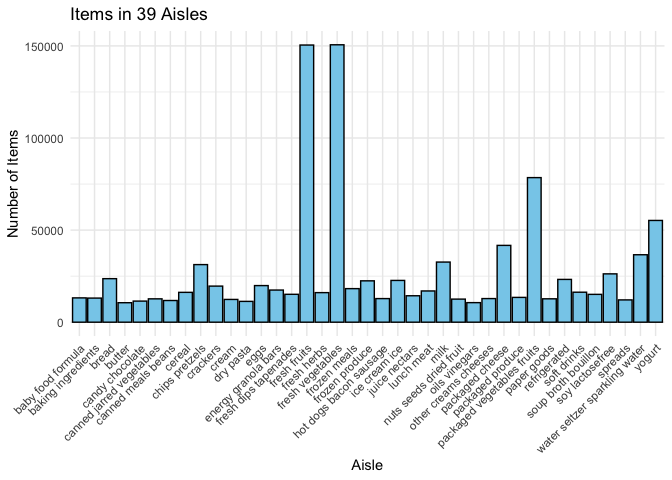
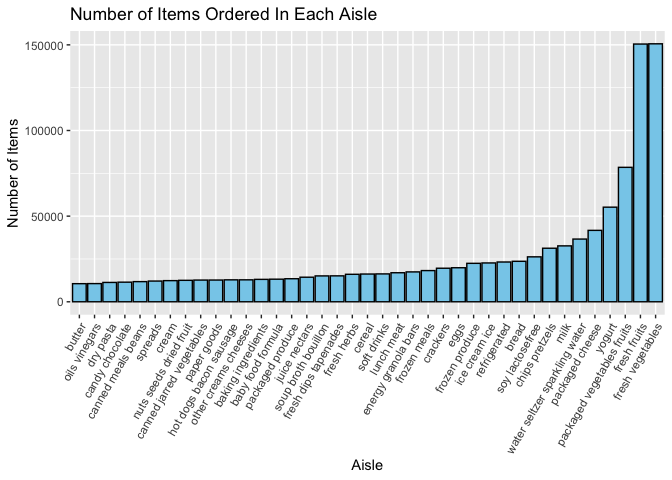
Finished writeups, checked format looks good

diff --git a/p8105_hw3_md4270.md b/p8105_hw3_md4270.md
@@ -15,9 +15,12 @@ data("instacart")
 ```
 
 The `instacart` dataset has 1384617 number of rows and 15 number of
-columns. Each row is an order placed. Key variables contain the order
-id, product id, user id, the order date, product id and the aisle it’s
-in.
+columns. Each row is a single product from an instacart order placed.
+Key variables contain the order id, product id, user id, the order date,
+product id and the aisle it’s in.
+
+In total, there are 39123 products found in 131209 orders from 131209
+distinct users.
 
 ``` r
 aisle_num = length(unique(instacart$aisle_id))
@@ -55,16 +58,16 @@ limiting this to aisles with more than 10000 items ordered. Arrange
 aisles sensibly, and organize your plot so others can read it.
 
 ``` r
-instacart |>
-  group_by(aisle) |>
-  summarize(items_num = n()) |>
-  filter(items_num > 10000) |>
-  arrange(desc(items_num)) |>
-  ggplot(aes(x=aisle, y=items_num)) +
+instacart |> 
+  count(aisle) |> 
+  filter(n > 10000) |> 
+  mutate(aisle = fct_reorder(aisle, n)) |> 
+  ggplot(aes(x = aisle, y = n)) + 
   geom_bar(stat="identity", fill = "skyblue", color = "black") +
-  theme_minimal() +
-  theme(axis.text.x = element_text(angle = 45, hjust = 1)) +
-  labs(x = "Aisle", y = "Number of Items", title = "Items in 39 Aisles")
+  labs(title = "Number of Items Ordered In Each Aisle", 
+       x = "Aisle", 
+       y = "Number of Items") +
+  theme(axis.text.x = element_text(angle = 60, hjust = 1))
 ```
 
 ![](p8105_hw3_md4270_files/figure-gfm/unnamed-chunk-5-1.png)<!-- -->
@@ -100,28 +103,6 @@ instacart |>
 Make a table showing the mean hour of the day at which Pink Lady Apples
 and Coffee Ice Cream are ordered on each day of the week; format this
 table for human readers (i.e. produce a 2 x 7 table).
-
-``` r
-instacart
-```
-
-    ## # A tibble: 1,384,617 × 15
-    ##    order_id product_id add_to_cart_order reordered user_id eval_set order_number
-    ##       <int>      <int>             <int>     <int>   <int> <chr>           <int>
-    ##  1        1      49302                 1         1  112108 train               4
-    ##  2        1      11109                 2         1  112108 train               4
-    ##  3        1      10246                 3         0  112108 train               4
-    ##  4        1      49683                 4         0  112108 train               4
-    ##  5        1      43633                 5         1  112108 train               4
-    ##  6        1      13176                 6         0  112108 train               4
-    ##  7        1      47209                 7         0  112108 train               4
-    ##  8        1      22035                 8         1  112108 train               4
-    ##  9       36      39612                 1         0   79431 train              23
-    ## 10       36      19660                 2         1   79431 train              23
-    ## # ℹ 1,384,607 more rows
-    ## # ℹ 8 more variables: order_dow <int>, order_hour_of_day <int>,
-    ## #   days_since_prior_order <int>, product_name <chr>, aisle_id <int>,
-    ## #   department_id <int>, aisle <chr>, department <chr>
 
 ``` r
 instacart |>
@@ -173,17 +154,15 @@ brfss_smart2010_cleaned =
   brfss_smart2010 |>
   janitor::clean_names() |>
   rename("state"="locationabbr", "county"="locationdesc") |> 
-  filter(topic=="Overall Health" & response %in% c("Excellent", "Very good", "Good", "Fair", "Poor"))
-  
-brfss_smart2010_cleaned$response = 
-  factor(brfss_smart2010_cleaned$response, levels = c("Poor", "Fair", "Good", "Very good", "Excellent"), ordered = TRUE)
+  filter(topic=="Overall Health" & response %in% c("Excellent", "Very good", "Good", "Fair", "Poor")) |>
+  mutate(response = factor(response, levels = c("Poor", "Fair", "Good", "Very good", "Excellent")))
   
 head(brfss_smart2010_cleaned)
 ```
 
     ## # A tibble: 6 × 23
     ##    year state county        class topic question response sample_size data_value
-    ##   <int> <chr> <chr>         <chr> <chr> <chr>    <ord>          <int>      <dbl>
+    ##   <int> <chr> <chr>         <chr> <chr> <chr>    <fct>          <int>      <dbl>
     ## 1  2010 AL    AL - Jeffers… Heal… Over… How is … Excelle…          94       18.9
     ## 2  2010 AL    AL - Jeffers… Heal… Over… How is … Very go…         148       30  
     ## 3  2010 AL    AL - Jeffers… Heal… Over… How is … Good             208       33.1
@@ -200,22 +179,10 @@ head(brfss_smart2010_cleaned)
 locations_2002 = 
   brfss_smart2010_cleaned |>
   filter(year==2002) |>
-  group_by(state) |>
+  group_by(year, state) |>
   summarize(num_location = n_distinct(county)) |>
   filter(num_location >= 7)
-
-head(locations_2002)
 ```
-
-    ## # A tibble: 6 × 2
-    ##   state num_location
-    ##   <chr>        <int>
-    ## 1 CT               7
-    ## 2 FL               7
-    ## 3 MA               8
-    ## 4 NC               7
-    ## 5 NJ               8
-    ## 6 PA              10
 
 In 2002, states CT, FL, MA, NC, NJ, PA were observed at 7 or more
 locations.
@@ -224,22 +191,13 @@ locations.
 locations_2010 = 
   brfss_smart2010_cleaned |>
   filter(year==2010) |>
-  group_by(state) |>
+  group_by(year, state) |>
   summarize(num_location = n_distinct(county)) |>
   filter(num_location >= 7)
-
-head(locations_2010)
 ```
 
-    ## # A tibble: 6 × 2
-    ##   state num_location
-    ##   <chr>        <int>
-    ## 1 CA              12
-    ## 2 CO               7
-    ## 3 FL              41
-    ## 4 MA               9
-    ## 5 MD              12
-    ## 6 NC              12
+    ## `summarise()` has grouped output by 'year'. You can override using the
+    ## `.groups` argument.
 
 In 2010, states CT, FL, MA, NC, NJ, PA were observed at 7 or more
 locations.
@@ -287,7 +245,7 @@ ggplot(avg_values, aes(x = year, y = avg_data_value, color = state, group = stat
   theme_minimal()
 ```
 
-![](p8105_hw3_md4270_files/figure-gfm/unnamed-chunk-15-1.png)<!-- -->
+![](p8105_hw3_md4270_files/figure-gfm/unnamed-chunk-14-1.png)<!-- -->
 
 Make a two-panel plot showing, for the years 2006, and 2010,
 distribution of data_value for responses (“Poor” to “Excellent”) among
@@ -303,14 +261,15 @@ filter(brfss_smart2010_cleaned$state == "NY"
 ggplot(ny_data, aes(x = response, y = data_value, fill = response)) +
   geom_boxplot() +
   facet_wrap(~year, scales = "free_y") +
-  labs(title = "Distribution of data_value for Responses in NY State",
+  scale_fill_brewer(palette = "Pastel1", name = "Response") +
+  labs(title = "Distribution of Data Value for Responses in NY State",
        y = "Data Value",
        x = "Response") +
   theme_minimal() +
   theme(axis.text.x = element_text(angle = 45, hjust = 1))
 ```
 
-![](p8105_hw3_md4270_files/figure-gfm/unnamed-chunk-17-1.png)<!-- -->
+![](p8105_hw3_md4270_files/figure-gfm/unnamed-chunk-16-1.png)<!-- -->
 
 ## Problem 3
 
@@ -394,22 +353,33 @@ in each education category:
 ``` r
 ggplot(nhanes, aes(x = education, y = age, fill = sex)) +
   geom_boxplot() +
+  scale_fill_brewer(palette = "Pastel1", name = "Sex") + 
   labs(title = "Age Distribution by Gender and Education",
        x = "Education Level",
        y = "Age") +
   theme_minimal()
 ```
 
-![](p8105_hw3_md4270_files/figure-gfm/unnamed-chunk-23-1.png)<!-- -->
+![](p8105_hw3_md4270_files/figure-gfm/unnamed-chunk-22-1.png)<!-- -->
 
-“There are more female in the higher education group, more male have a
-high school equivalent background. This box-plot shows the age
-distribution of men and women in three different education levels. As a
-result, younger people appear to have a higher education level (more
-than high school), the middle age group have relevant lower education.”
+Based on the table above, there are more female in the higher education
+group, while fewer female in the high school equivalent background
+compared to male.
 
-Using your tidied dataset, aggregate across minutes to create a total
-activity variable for each participant:
+The boxplot that displays the age distribution of participants across
+different education levels.
+
+Among those who participated in the NHANES study, the group with “high
+school or equivalent” degree has the highest median age for females. The
+group with “more than high school degree” has the lowest median age for
+females.
+
+Among those who participated in the NHANES study, the group with “less
+than high school” degree has the highest median age for males. The group
+with “more than high school degree” has the lowest median age for males.
+
+Using the tidied dataset from above, aggregate across minutes to create
+a total activity variable for each participant:
 
 ``` r
 total_act = nhanes |>
@@ -428,9 +398,17 @@ ggplot(total_act, aes(x = age, y = total_activity, color = sex)) +
        y = "Total Activity")
 ```
 
-![](p8105_hw3_md4270_files/figure-gfm/unnamed-chunk-25-1.png)<!-- -->
+![](p8105_hw3_md4270_files/figure-gfm/unnamed-chunk-24-1.png)<!-- -->
 
-Comment on your plot:
+For all groups of participants, the general trend of total activity time
+versus age is decreasing, which makes sense because elder people tend to
+do less exercise.
+
+For “high school equivalent” and “more than high school” groups, male
+generally have fewer total activity time across each age bins. Total
+activity time plot for participants with “high school equivalent” degree
+shows a “peak” of activity time at around age 40 for both genders. For
+the other two groups, the “peak” is around at 60.
 
 Lastly, we make a 24-hour activity time courses plot:
 
@@ -458,6 +436,10 @@ ggplot(total_act_24hrs, aes(x = time, y = mean, color = sex)) +
        y = "Activity")
 ```
 
-![](p8105_hw3_md4270_files/figure-gfm/unnamed-chunk-27-1.png)<!-- -->
+![](p8105_hw3_md4270_files/figure-gfm/unnamed-chunk-26-1.png)<!-- -->
 
-Comment on plots:
+All three plots show a surprisingly similar trends for 24-hour activity
+time change. For the group with “less than high school” degree, there is
+not much difference across male and female (two lines basically
+overlap). For the other two, female tend to have a higher mean value of
+activity time than male do.
